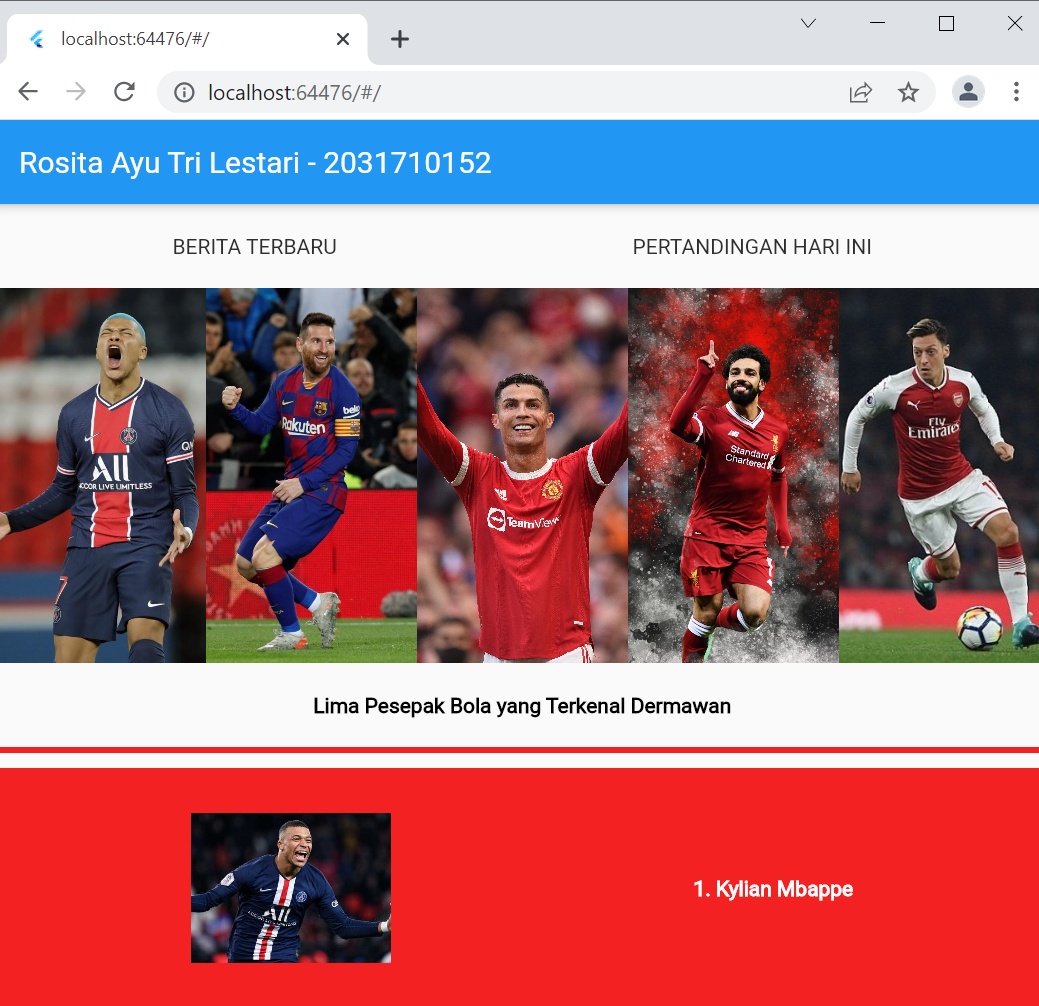
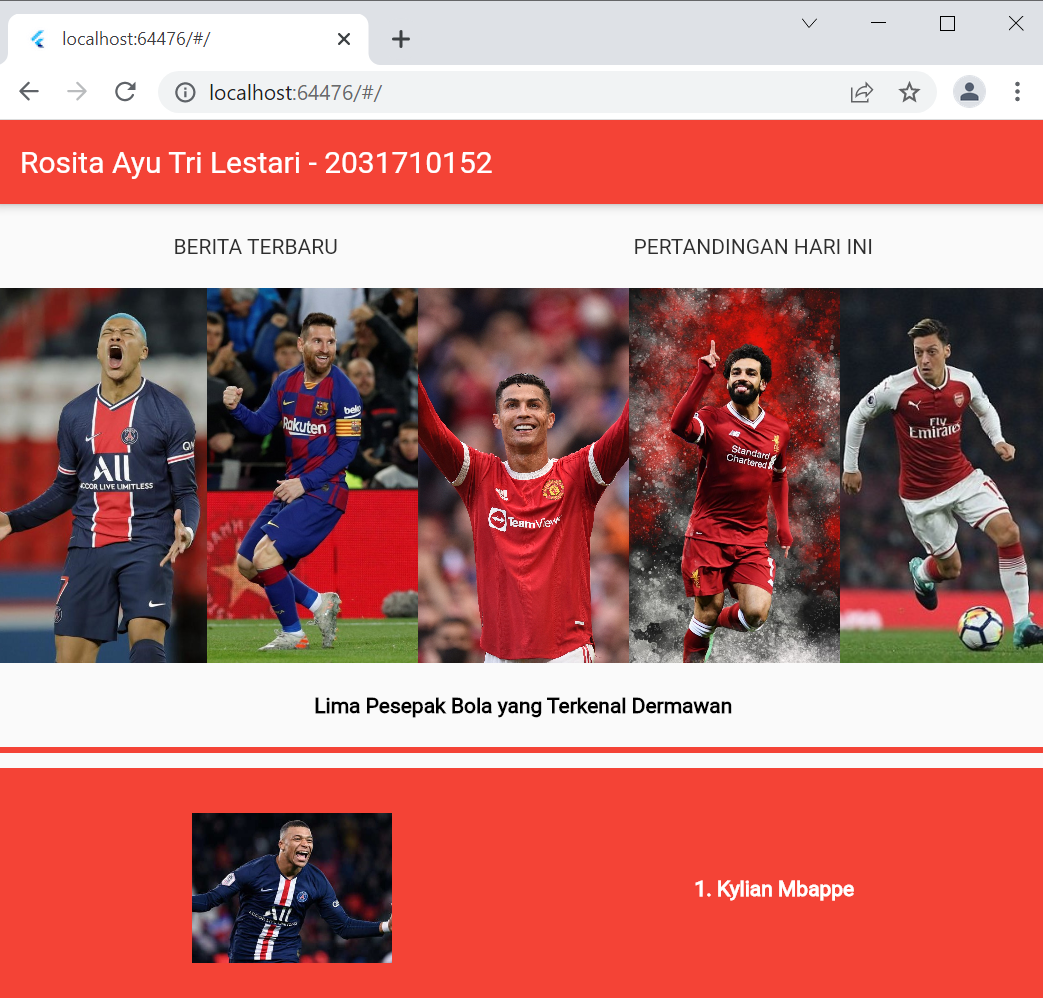
pesan

diff --git a/lib/main.dart b/lib/main.dart
@@ -7,12 +7,17 @@ void main() {
 
 class MyApp extends StatelessWidget {
   const MyApp({Key? key}) : super(key: key);
+
   @override
   Widget build(BuildContext context) {
-    return const MaterialApp(
+    return MaterialApp(
       debugShowCheckedModeBanner: false,
-      home: Home(),
+      theme: ThemeData(
+        primarySwatch: Colors.red,
+      ),
+      home: const Home(),
     );
   }
 }
+
 
